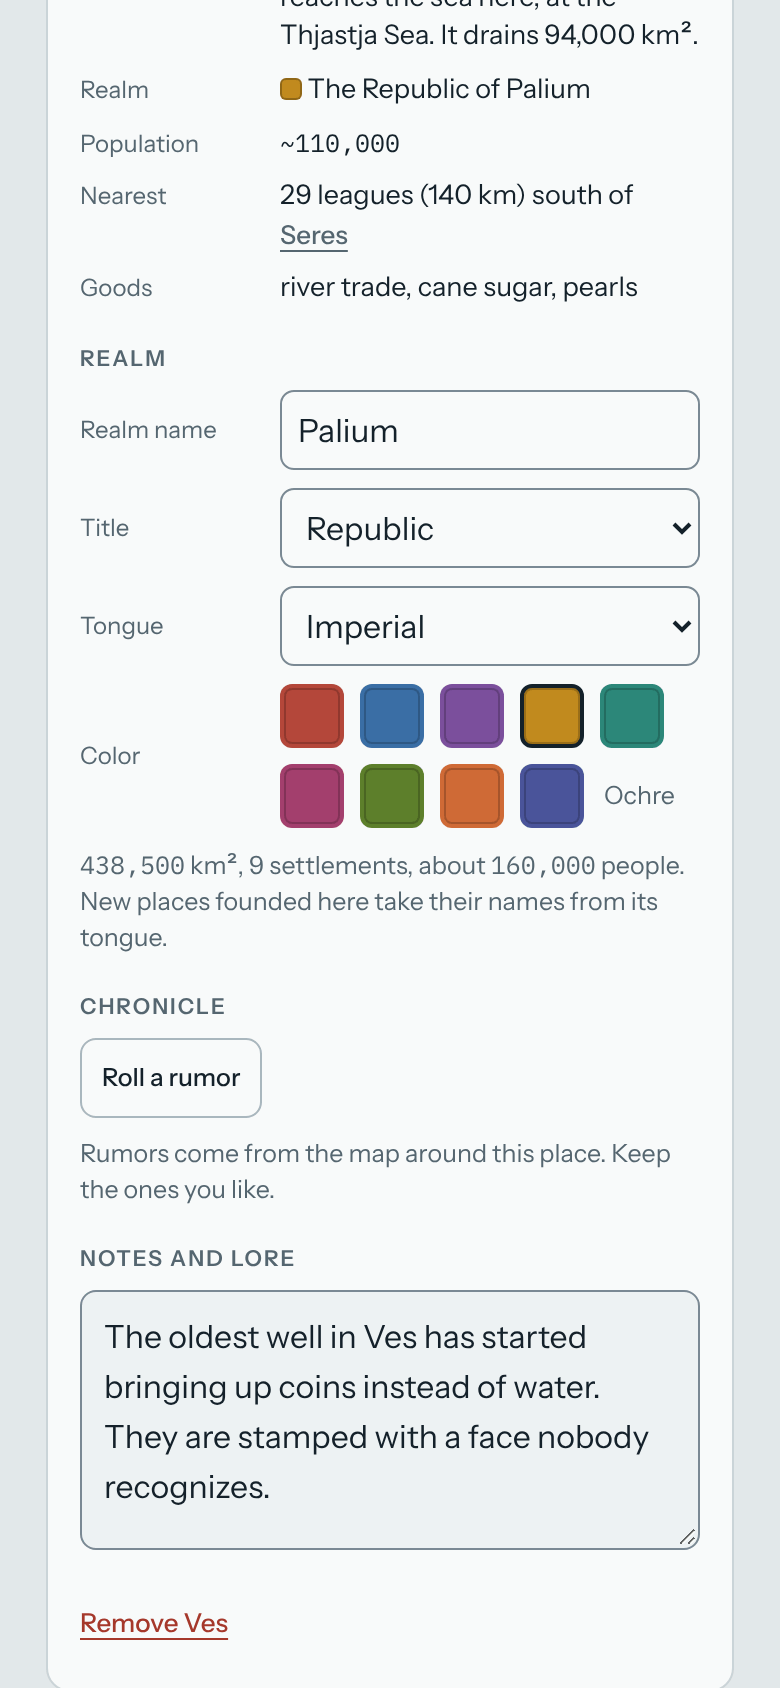
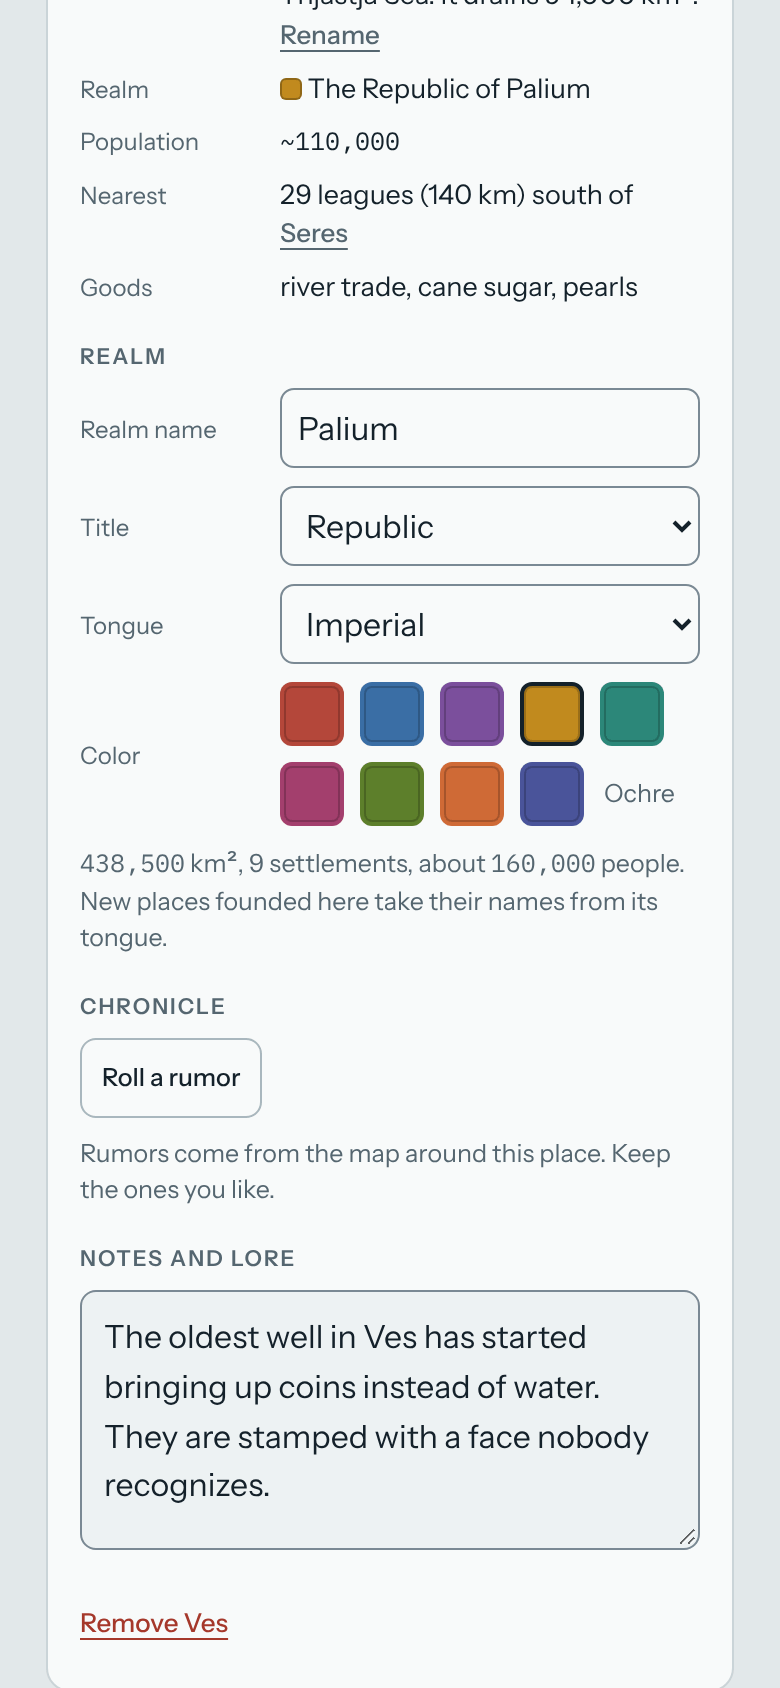
Let a river take a name you type, and name every river you draw on the map
Generated river names are random, and people write stories about rivers, but nothing let you name one. A place's River
line now has Rename, which opens a box like a town's name: Enter or leaving the box keeps the name, Esc doesn't, and
Undo takes it back. A typed name stays with the river through edits and reloads, as other names now do, and comes
first: a river that had that name takes a new one and the toast says which, and two typed names can't be the same.
The map named only the four biggest rivers, so a river you drew showed no name anywhere unless you tapped beside it;
now each drawn river is named along the line you drew, unless the river it joins is named already. Answers Mark's
question on naming a river yourself and labelling the rivers you draw.

Claude-Session: https://claude.ai/code/session_01PQbLNV8yuVmPjyBMzr2F36

diff --git a/js/app.js b/js/app.js
@@ -159,7 +159,7 @@ const D = {
   filled: new Float32Array(N), down: new Int32Array(N), acc: new Float32Array(N), area: new Float32Array(N), order: new Int32Array(N), lake: new Uint8Array(N), lakeF: new Float32Array(N),
   vis: new Uint8Array(N), isR: new Uint8Array(N), hasUp: new Uint8Array(N), mouth: new Int32Array(N), body: new Int32Array(N),
   owner: new Int16Array(N), cost: new Float64Array(N), ind: new Float32Array(N), tmp: new Float32Array(N), dist: new Int16Array(N), q: new Int32Array(N),
-  realms: [], borders: [], coast: new Path2D(), contours: null, riverPaths: [], riverLabels: [], glyphs: [], riverNames: new Map(),
+  realms: [], borders: [], coast: new Path2D(), contours: null, riverPaths: [], riverLabels: [], riverMouths: [], glyphs: [], riverNames: new Map(),
 };
 const view = { s: 1, s0: 1, ox: 0, oy: 0, cw: 0, ch: 0, dpr: 1 };
 
@@ -417,9 +417,19 @@ function buildRivers() {
   }
   D.riverPaths = paths;
   nameRivers();
-  mouths.sort((a, b) => acc[b] - acc[a]);
-  const labels = [];
-  for (const m of mouths) {
+  mouths.sort((a, b) => acc[b] - acc[a]); D.riverMouths = mouths;
+  labelRivers();
+}
+// The four biggest rivers are named on the map, along their main stem, and so is every river drawn by hand, along the
+// line it was drawn (unless the river it is part of is named already).
+function labelRivers() {
+  const acc = D.acc, down = D.down, isR = D.isR, labels = [], named = new Set();
+  const label = (cells, k, m) => {
+    const a = cells[Math.max(0, k - 6)], b = cells[Math.min(cells.length - 1, k + 6)], p = cells[k];
+    let ang = Math.atan2(cyOf(b) - cyOf(a), cxOf(b) - cxOf(a)); if (ang > Math.PI / 2) ang -= Math.PI; if (ang < -Math.PI / 2) ang += Math.PI;
+    labels.push({ x: cxOf(p) + Math.sin(ang) * 1.8, y: cyOf(p) - Math.cos(ang) * 1.8, ang, name: riverName(m).full }); named.add(m);
+  };
+  for (const m of D.riverMouths) {
     if (labels.length >= 4 || acc[m] < RIVER_T * 8) break;
     const stem = [m]; let cur = m;
     for (let g = 0; g < 500; g++) {
@@ -428,9 +438,21 @@ function buildRivers() {
       if (best < 0) break; stem.push(best); cur = best;
     }
     if (stem.length < 26) continue;
-    const k = Math.floor(stem.length * 0.45), a = stem[k - 6], b = stem[k + 6], p = stem[k];
-    let ang = Math.atan2(cyOf(b) - cyOf(a), cxOf(b) - cxOf(a)); if (ang > Math.PI / 2) ang -= Math.PI; if (ang < -Math.PI / 2) ang += Math.PI;
-    labels.push({ x: cxOf(p) + Math.sin(ang) * 1.8, y: cyOf(p) - Math.cos(ang) * 1.8, ang, name: riverName(m).full });
+    label(stem, Math.floor(stem.length * 0.45), m);
+  }
+  // A drawn river is labelled from its source down to where it meets a bigger river, or if it meets one straight away,
+  // down to where it meets a lake or the sea.
+  for (const sp of world.springs || []) {
+    const src = cellAt(sp.x, sp.y); if (!isR[src]) continue;
+    const m = mouthOf(src); if (named.has(m)) continue;
+    const all = [src]; let own = 0;
+    for (let c = down[src], prev = src; c >= 0 && isR[c] && all.length < 120; prev = c, c = down[c]) {
+      const cx = c % W, cy = (c / W) | 0;
+      if (!own) for (let k = 0; k < 8; k++) { const nx = cx + NBX[k], ny = cy + NBY[k]; if (nx < 0 || ny < 0 || nx >= W || ny >= H) continue; const n = ny * W + nx; if (n !== prev && down[n] === c && isR[n] && acc[n] > acc[prev]) own = all.length; }
+      all.push(c);
+    }
+    const run = own >= 8 ? all.slice(0, own) : all;
+    if (run.length >= 3) label(run, Math.floor(run.length * 0.45), m);
   }
   D.riverLabels = labels;
 }
@@ -2553,6 +2575,19 @@ function facts(x, y, self) {
   }
   return f;
 }
+// A name typed in for a river (by its mouth) is kept as its own, before any other: a river that had the same name takes
+// a new one, unless that name was typed in too. A box left empty, or as it was, changes nothing.
+function renameRiver(m, text) {
+  const name = text.replace(/\s+/g, ' ').trim().slice(0, RIVER_MAX), mine = world.rivers.find(r => r.y * W + r.x === m);
+  if (!name || !mine || name === mine.name) return;
+  const other = world.rivers.find(r => r !== mine && riverKey(r.name) === riverKey(name));
+  if (other && other.own) { toast(`Another river is already called ${other.name}.`); return; }
+  pushUndo({ meta: true });
+  mine.name = name; mine.own = true;
+  if (other) world.rivers = world.rivers.filter(r => r !== other);
+  riversFromTable = true; nameRivers(); labelRivers(); requestDraw(); markDirty();
+  if (other) toast(`The river that was ${other.name} is now ${riverName(other.y * W + other.x).full}.`, { label: 'Undo', fn: undo });
+}
 // Where a river goes from one of its cells, as its line on a page has it: 'flows southeast through Lake Vool and reaches
 // the sea at the Gulf of Lainho, 40 leagues (192 km) on. It drains 12,000 km².' The way it flows is taken a few cells
 // on, the distance is along its bed to its mouth, and what it drains is all the land upstream of its mouth.
@@ -2590,7 +2625,7 @@ function factsHTML(f, p) {
     rows.push(['Setting', bits.join(', ')]);
   }
   // The river's name goes to its mouth.
-  if (f.river) { const m = mouthOf(f.riverAt); rows.push(['River', `<button class="link" data-mouth="${m}">${esc(f.river.full)}</button> ${esc(riverWay(f.riverAt))}`]); }
+  if (f.river) { const m = mouthOf(f.riverAt); rows.push(['River', `<span class="rv-line"><button class="link" data-mouth="${m}">${esc(f.river.full)}</button> ${esc(riverWay(f.riverAt))} <button class="link" data-rename="${m}" aria-label="Rename ${esc(f.river.on)}">Rename</button></span>`]); }
   // The realm's name goes to its capital's page, where it is renamed and recoloured; on the capital itself it is text.
   const rname = f.realm && `<span data-realm="${f.realm.place.id}">${esc(f.realm.display)}</span>`;
   rows.push([f.water || f.lake ? 'Waters of' : 'Realm', f.realm ? `<span class="swatch" style="background:${f.realm.color}"></span> ${p === f.realm.place ? rname : `<button class="link" data-goto="${f.realm.place.id}">${rname}</button>`}` : (f.water || f.lake ? 'No realm' : 'Unclaimed')]);
@@ -2722,6 +2757,17 @@ function bindGotos(pane) {
   bindToolLinks(pane, '#pane-inspect [data-goto]');
   // A river's name shows its mouth, and that spot's page.
   pane.querySelectorAll('[data-mouth]').forEach(b => b.onclick = () => { const m = +b.dataset.mouth, x = m % W + 0.5, y = ((m / W) | 0) + 0.5; select({ type: 'loc', x, y }); centerOn(x, y); mapIntoView(); refocus('#showOnMap'); });
+  // Rename opens a box in the River line, as a town's name is one. Enter or leaving it keeps the name; Esc doesn't.
+  pane.querySelectorAll('[data-rename]').forEach(b => b.onclick = () => {
+    const m = +b.dataset.rename, line = b.closest('.rv-line'), was = riverName(m).full;
+    line.innerHTML = `<label class="sr" for="rvName">River name</label><input id="rvName" class="txt rv-name" value="${esc(was)}" maxlength="${RIVER_MAX}" autocomplete="off" spellcheck="false">`;
+    const box = $('#rvName', line); let done = false;
+    const finish = keep => { if (done) return; done = true; if (keep) renameRiver(m, box.value); renderInspector(); refocus(`#pane-inspect [data-rename="${m}"]`); };
+    box.addEventListener('keydown', e => { if (e.key === 'Enter') { e.preventDefault(); finish(true); } else if (e.key === 'Escape') { e.preventDefault(); e.stopPropagation(); finish(false); } });
+    box.addEventListener('change', () => finish(true));
+    box.addEventListener('blur', () => finish(true));
+    box.focus(); box.select();
+  });
   // Show on map centres the map on what this page is about, and on a phone, where the map can be scrolled away above
   // the page, brings it into view.
   const show = $('#showOnMap', pane); if (show) show.onclick = () => { const o = findSel(ui.selected); if (o) { centerOn(o.x, o.y); mapIntoView(); } };
@@ -3459,6 +3505,8 @@ window.terra = {
   rivers: () => world.rivers.map(r => ({ ...r, own: !!r.own })),
   // The name of the river a spot is on, as its page has it, or null.
   riverAt: (x, y) => { const f = facts(x, y, null); return f.river ? f.river.full : null; },
+  // The rivers named on the map, as drawn at full size: their names, and where each sits.
+  riverLabels: () => D.riverLabels.map(l => ({ name: l.name, x: l.x, y: l.y })),
   riverNear: (x, y, r = 1.5) => {
     for (let dy = -Math.ceil(r); dy <= Math.ceil(r); dy++) for (let dx = -Math.ceil(r); dx <= Math.ceil(r); dx++) {
       if (dx * dx + dy * dy > r * r) continue; const i = cellAt(x + dx, y + dy); if (D.isR[i]) return true;

diff --git a/sw.js b/sw.js
@@ -9,7 +9,7 @@
 // fingerprint of every file in SHELL: change any of them and test/e2e.mjs fails until FILES is changed to match (it
 // says what to), which changes this file, so every copy is made whole again at once.
 const CACHE = 'terra-incognita-v3'; // bump the number when the file list changes
-const FILES = 'ab85e0f7'; // test/e2e.mjs checks this
+const FILES = '0dbedb37'; // test/e2e.mjs checks this
 const SHELL = [
   './', 'index.html', 'css/app.css', 'js/app.js', 'js/edge-guard.js', 'manifest.webmanifest', 'icon.svg',
   'icon-180.png', 'icon-192.png', 'icon-512.png', 'icon-512-maskable.png',

diff --git a/css/app.css b/css/app.css
@@ -168,6 +168,8 @@ textarea{width:100%;min-height:130px;font:14px/1.55 var(--f-ui);border:1px solid
 .eyebrow .eb-text .swatch{margin:0 5px 0 2px}
 .eyebrow .show-on-map{margin-left:auto;text-transform:none;letter-spacing:0;font-size:12.5px}
 .facts .sep{margin:0 .4em;color:var(--muted)}
+/* A river's name, typed in its River line, takes the line's width. */
+.rv-name{width:100%}
 .welcome .lede{font-family:var(--f-display);font-size:17px;line-height:1.4;color:var(--ink)}
 .welcome p{margin:0;max-width:62ch}
 .welcome{display:flex;flex-direction:column;gap:12px}

diff --git a/README.md b/README.md
@@ -20,12 +20,12 @@ and sea stop them. Every town has a page for its story.
 - **Sketch.** *Land*: draw a loop and land rises inside it, with hills and a coast as smooth or jagged as you like.
   *Sea*: a loop floods, for bays, straits and inland seas. *Mountain range*: draw the ridge line; a valley it blocks
   drains through a gorge at the lowest pass instead of becoming a lake. *River*: draw from the source toward the sea,
-  and a valley forms so the water follows your line.
+  and a valley forms so the water follows your line; the map names every river you draw.
 - **Brushes for the details.** Raise, Lower and Smooth reshape the ground; Wetter and Drier move the rain, and the
   forests, grassland and deserts move with it.
 - **Water finds its way.** Every patch of ground drains downhill to the sea. Where enough rain gathers there's a river,
-  and every river has a name of its own, which it keeps as you reshape the land; where water can't get out it pools
-  into a lake.
+  and every river has a name of its own, which it keeps as you reshape the land (*Rename* on a place's River line gives
+  it one of yours); where water can't get out it pools into a lake.
 - **Climate from latitude and height.** Cold in the north, warm in the south, 6.5 °C cooler for every kilometre up, and
   rainfall in millimetres a year. Fourteen kinds of land, from ice sheet to jungle.
 - **Realms.** A capital claims the land around it until hills, deserts and sea make going further too costly, and its
